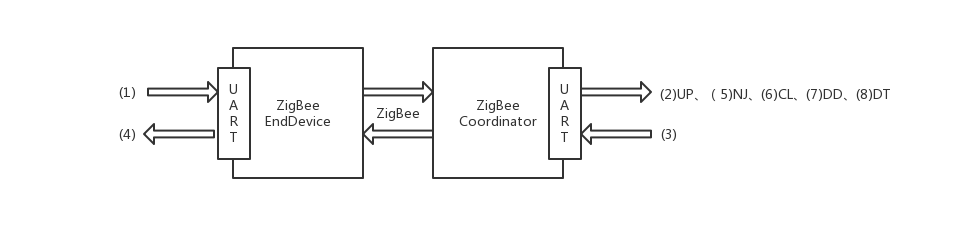
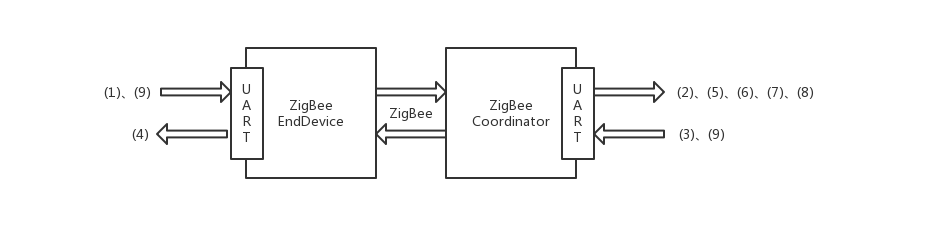
SN dynamic

diff --git a/docs/master/SensorNetwork/simpleSN.rst b/docs/master/SensorNetwork/simpleSN.rst
@@ -18,18 +18,21 @@
 
 TBSource(Sensor Controller):
   + sensor.py：传感器控制库，包括DHT11、BH1750、SPO2类
-  + TB_Sensor_EndDevice.py：主程序，获取传感数据，封装成AT指令，通过UART发给ZigBee模块
+  + TB_Sensor_EndDevice.py：主程序，设置PANID，获取传感数据，封装成AT指令，通过UART发给ZigBee模块
 
 SkidsSource(Gateway):
   + umqtt/simple.py：MQTT函数库
   + ATRT.py：AT指令收发库，用于对ZigBee协调器UART发来的AT指令解析、封装数据成AT指令
   + MSGP.py：MQTT消息处理库，用于对MQTT主题收到的消息进行解析或封装
   + LCD.py：LCD显示库，用于驱动LCD显示收到的传感数据
-  + SK_Gateway.py：主程序，连接WiFi，接收传感数据并发布、显示，订阅主题接收MQTT消息并下发
+  + SK_Gateway.py：主程序，设置PANID，连接WiFi，接收传感数据并发布、显示，订阅主题接收MQTT消息并下发
 
 使用说明
 -----------------------
 
+首先修改TB_Sensor_EndDevice.py和SK_Gateway.py中的PANID，要唯一，以建立自己的ZigBee网，防止与其他人冲突。
+
   + 将TBSource(Sensor Controller)拷贝保存到连接着传感器模块的TB板的PYBFLASH中，主程序名改为main.py，然后复位启动。
   + 将SkidsSource(Gateway)按以上目录结构用uPyCraft工具下载到网关Skids（ZigBee烧的是协调器程序）中，然后运行主程序。
   + 之后网关Skids在LCD上显示传感数据信息，并发布到MQTT主题。
+  + 注：如果要修改设置的PANID，需先复位ZigBee，再执行主程序。

diff --git a/docs/master/SensorNetwork/complexSN.rst b/docs/master/SensorNetwork/complexSN.rst
@@ -38,9 +38,12 @@ SkidsSource(EndDevice):
 使用说明
 -----------------------
 
+首先修改TB_Sensor_EndDevice.py、TB_Control_EndDevice.py、SK_Gateway.py、SK_EndDevice.py中的PANID，
+要唯一，以建立自己的ZigBee网，防止与其他人冲突。
+
   + 将TBSource(Sensor Controller)拷贝保存到连接着传感器模块的TB板的PYBFLASH中，主程序名改为main.py，然后复位启动。
   + 将TBSource(Motor Controller)拷贝保存到连接着步进电机模块的TB板的PYBFLASH中，主程序名改为main.py，然后复位启动。
   + 将SkidsSource(Gateway)按以上目录结构用uPyCraft工具下载到网关Skids（ZigBee烧的是协调器程序）中，然后运行主程序。
   + 将SkidsSource(EndDevice)按目录结构用uPyCraft工具下载到终端Skids（ZigBee烧的是终端程序）中，然后运行主程序。
   + 之后网关Skids和终端Skids先后在LCD上显示传感数据信息，并发布到MQTT主题，同时也可接收MQTT下发控制指令。
-
+  + 注：如果要修改设置的PANID，需先复位ZigBee，再执行主程序。

diff --git a/docs/master/SensorNetwork/dataFormat.rst b/docs/master/SensorNetwork/dataFormat.rst
@@ -78,6 +78,14 @@ AT指令是ZigBee之间的通信数据格式
 	7E    00   05    88                       01   44 54  00                F0
 	head  lenH lenL  AT_RESPONSE_FRAME(0x88)  fid  D  T   AT_RESP_OK(0x00)  tail
 
+(9) 用于设置ZigBee组网的PANID
+  + 长度字段值为2
+  + PANID为最后两个字节
+::
+
+	7E    00   02    01                        01   49 44  17 01
+	head  lenH lenL  AT_SETPANNID_FRAME(0x01)  fid  I  D   PANID
+
 
 传感与控制数据格式
 -----------------------

diff --git a/docs/master/SensorNetwork/zigbeeBurn.rst b/docs/master/SensorNetwork/zigbeeBurn.rst
@@ -6,6 +6,7 @@ ZigBee固件烧写
 固件介绍
 -----------------------
 
+Firmware(dynamic)：
   + PAN_Coordinator_JN5169.bin：ZigBee Coordinator固件，烧写在网关Skids的ZigBee上
   + SK_EndDevice_JN5169.bin：ZigBee EndDevice固件，烧写在终端Skids的ZigBee上
   + TB_EndDevice_JN5169.bin：ZigBee EndDevice固件，烧写在ZigBee模块的ZigBee上
